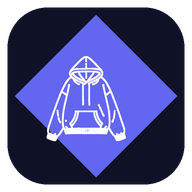
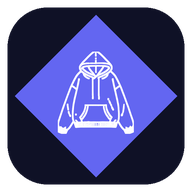
アイコンのパーカーを、ひし形の中心に合わせる
パーカーの絵が、左下へ約57ピクセル（横）・約55ピクセル（縦の重心）ずれていた。切り出しの範囲に、元の絵の暗い帯の端が
含まれて、外枠が実際より広がっていたため。外れ値を除いて正確に切り出し、外枠の中心と線の重心の中間を、ひし形の中心に合わせた。
パーカーがひし形からはみ出さない最大の大きさ（0.43）に決め直し、はみ出した白い点が0であることを計測で確かめた。

Changed region(s): [[0.2188, 0.25, 0.7188, 0.75]]

diff --git a/index.html b/index.html
@@ -8,7 +8,7 @@
     <meta name="robots" content="noindex, nofollow">
     <title>ARELM</title>
     <link rel="stylesheet" href="css/style.css">
-    <link rel="manifest" href="manifest.json?v=4">
+    <link rel="manifest" href="manifest.json?v=5">
     <meta name="theme-color" content="#0f172a">
 
     <!-- iOS（iPhone・iPad）でホーム画面に追加したときの設定 -->
@@ -16,9 +16,9 @@
     <meta name="apple-mobile-web-app-status-bar-style" content="black-translucent">
     <meta name="apple-mobile-web-app-title" content="ARELM">
     <!-- アイコンはMacのアプリと同じ絵、名前は「ARELM」に、全端末で揃える。?v= は、各端末が古いアイコンを使い続けないため -->
-    <link rel="apple-touch-icon" sizes="180x180" href="images/apple-touch-icon.png?v=4">
-    <link rel="apple-touch-icon" sizes="512x512" href="images/icon-512x512.png?v=4">
-    <link rel="icon" type="image/png" sizes="192x192" href="images/icon-any-192x192.png?v=4">
+    <link rel="apple-touch-icon" sizes="180x180" href="images/apple-touch-icon.png?v=5">
+    <link rel="apple-touch-icon" sizes="512x512" href="images/icon-512x512.png?v=5">
+    <link rel="icon" type="image/png" sizes="192x192" href="images/icon-any-192x192.png?v=5">
 </head>
 <body>
     <div id="login-screen" class="login-screen">
